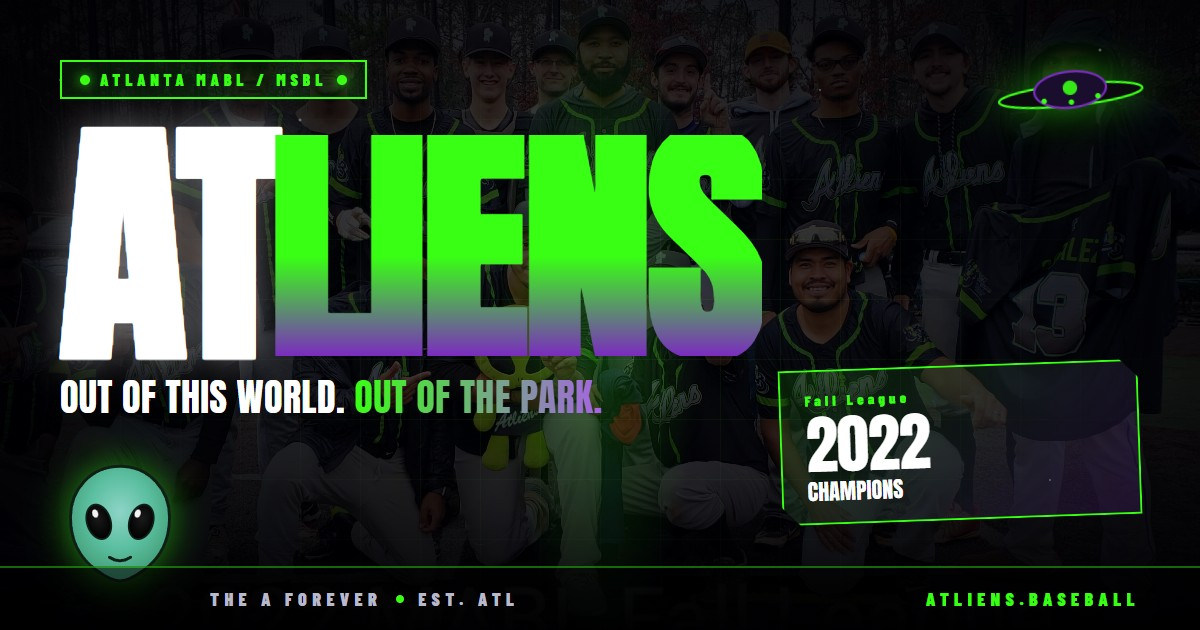
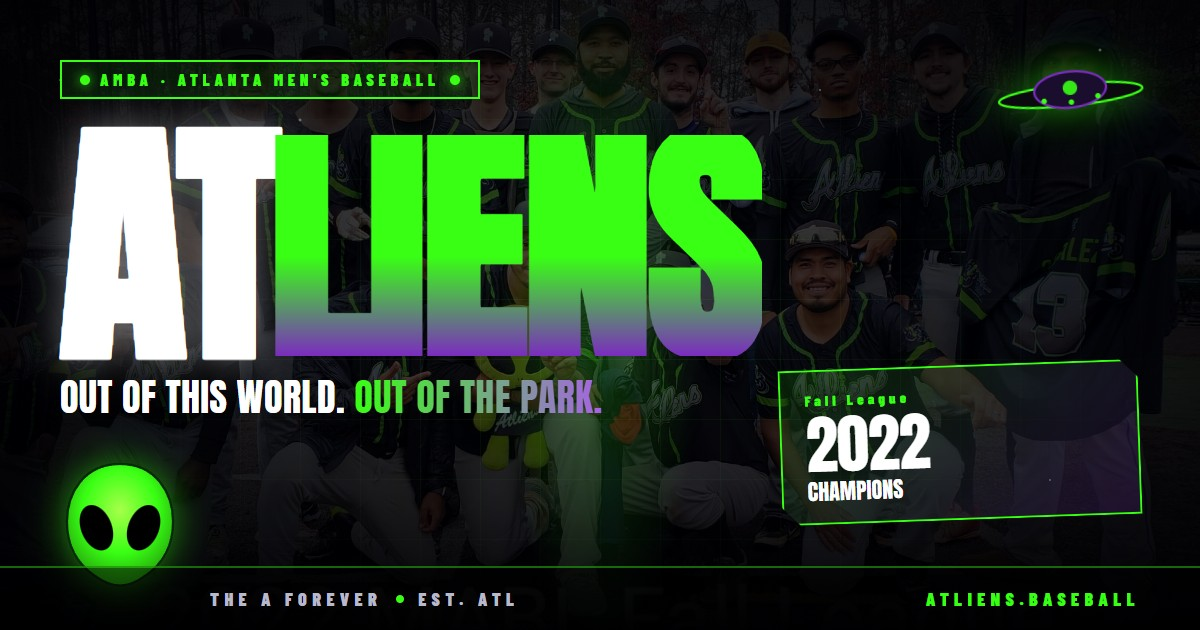
fix: correct league - AMBA (Atlanta Men's Baseball Association), not MABL/MSBL
Updated all references across:
- index.html: title, meta, JSON-LD schema (SportsTeam memberOf, FAQPage),
  hero eyebrow, ticker, About copy, stats (500 players / 1992 founded),
  trophy headline, gallery alt, Join card + CTA link to atlmba.com
- og.html + re-rendered og.jpg with AMBA eyebrow and new green alien
- sitemap.xml image titles/captions, manifest.webmanifest, humans.txt, README
- SW cache bumped to v1.4.0

AMBA = non-profit league founded 1992, 500+ players, divisions
18+/25+/30+/40+/43+/50+/53+/60+. Hosts the Roy Hobbs Peach State Classic.

Changed region(s): [[0.0308, 0.7238, 0.1542, 0.9349], [0.0925, 0.0905, 0.4008, 0.181]]

diff --git a/index.html b/index.html
@@ -5,9 +5,9 @@
 <meta name="viewport" content="width=device-width,initial-scale=1,viewport-fit=cover" />
 
 <!-- ===== Primary ===== -->
-<title>ATLiens Baseball | Atlanta MABL 2022 Fall League Champions</title>
-<meta name="description" content="The ATLiens - 2022 MABL Fall League Champions. Atlanta's loudest adult hardball team playing in the Atlanta MABL / MSBL. Out of this world. Out of the park." />
-<meta name="keywords" content="ATLiens, Atlanta MABL, MSBL, adult baseball Atlanta, Atlanta adult baseball league, men's baseball Atlanta, amateur baseball Georgia, MABL champions 2022, hardball Atlanta, Atlanta baseball team, ATL baseball" />
+<title>ATLiens Baseball | AMBA Atlanta Men's Baseball Association</title>
+<meta name="description" content="The ATLiens - 2022 Fall League Champions. Atlanta's loudest adult hardball team playing in AMBA, the Atlanta Men's Baseball Association. Out of this world. Out of the park." />
+<meta name="keywords" content="ATLiens, AMBA, Atlanta Men's Baseball Association, atlmba, adult baseball Atlanta, Atlanta adult baseball league, men's baseball Atlanta, amateur baseball Georgia, AMBA champions 2022, hardball Atlanta, Atlanta baseball team, ATL baseball, Peach State Classic" />
 <meta name="author" content="ATLiens Baseball Club" />
 <meta name="robots" content="index, follow, max-image-preview:large, max-snippet:-1, max-video-preview:-1" />
 <meta name="googlebot" content="index, follow, max-image-preview:large" />
@@ -29,8 +29,8 @@
 <meta name="ICBM" content="33.7490, -84.3880" />
 
 <!-- ===== Open Graph ===== -->
-<meta property="og:title" content="ATLiens Baseball | 2022 MABL Fall League Champions" />
-<meta property="og:description" content="The loudest team in the Atlanta MABL. Out of this world. Out of the park." />
+<meta property="og:title" content="ATLiens Baseball | 2022 AMBA Fall League Champions" />
+<meta property="og:description" content="The loudest team in AMBA - the Atlanta Men's Baseball Association. Out of this world. Out of the park." />
 <meta property="og:type" content="website" />
 <meta property="og:site_name" content="ATLiens Baseball" />
 <meta property="og:locale" content="en_US" />
@@ -40,14 +40,14 @@
 <meta property="og:image:type" content="image/jpeg" />
 <meta property="og:image:width" content="1200" />
 <meta property="og:image:height" content="630" />
-<meta property="og:image:alt" content="ATLiens Baseball - 2022 MABL Fall League Champions team photo with glitch logo" />
+<meta property="og:image:alt" content="ATLiens Baseball - 2022 AMBA Fall League Champions team photo with glitch logo" />
 
 <!-- ===== Twitter / X ===== -->
 <meta name="twitter:card" content="summary_large_image" />
-<meta name="twitter:title" content="ATLiens Baseball | 2022 MABL Fall League Champions" />
-<meta name="twitter:description" content="The loudest team in the Atlanta MABL. Out of this world. Out of the park." />
+<meta name="twitter:title" content="ATLiens Baseball | 2022 AMBA Fall League Champions" />
+<meta name="twitter:description" content="The loudest team in AMBA - the Atlanta Men's Baseball Association. Out of this world. Out of the park." />
 <meta name="twitter:image" content="https://credwine.github.io/atliens-baseball/assets/og.jpg" />
-<meta name="twitter:image:alt" content="ATLiens Baseball 2022 MABL Fall League Champions" />
+<meta name="twitter:image:alt" content="ATLiens Baseball 2022 AMBA Fall League Champions" />
 
 <!-- ===== Icons / PWA ===== -->
 <link rel="icon" href="assets/favicon.svg" type="image/svg+xml" />
@@ -87,7 +87,7 @@
       "url": "https://credwine.github.io/atliens-baseball/",
       "logo": "https://credwine.github.io/atliens-baseball/assets/alien-logo.svg",
       "image": "https://credwine.github.io/atliens-baseball/assets/og.jpg",
-      "description": "Adult amateur hardball team competing in the Atlanta MABL / MSBL. 2022 Fall League Champions.",
+      "description": "Adult amateur hardball team competing in AMBA - the Atlanta Men's Baseball Association. 2022 Fall League Champions.",
       "foundingLocation": {
         "@type": "Place",
         "address": {
@@ -99,13 +99,15 @@
       },
       "memberOf": {
         "@type": "SportsOrganization",
-        "name": "Atlanta MABL / MSBL",
-        "url": "https://www.atlantamabl.com/",
+        "name": "Atlanta Men's Baseball Association",
+        "alternateName": "AMBA",
+        "url": "https://www.atlmba.com/",
         "sport": "Baseball",
-        "description": "Atlanta's premier Men's Adult Baseball League - running since 1988, 50+ teams across 18+, 25+, 35+ and 50+ divisions."
+        "foundingDate": "1992",
+        "description": "AMBA - Atlanta Men's Baseball Association. Non-profit adult hardball league founded 1992 with 500+ players across 18+, 25+, 30+, 40+, 43+, 50+, 53+ and 60+ divisions. Hosts the AMBA / Roy Hobbs Peach State Classic on Memorial Day."
       },
       "award": [
-        "2022 MABL Fall League Champions"
+        "2022 AMBA Fall League Champions"
       ],
       "areaServed": {
         "@type": "City",
@@ -121,7 +123,7 @@
       "@id": "https://credwine.github.io/atliens-baseball/#website",
       "url": "https://credwine.github.io/atliens-baseball/",
       "name": "ATLiens Baseball",
-      "description": "Official ATLiens Baseball team site - 2022 MABL Fall League Champions.",
+      "description": "Official ATLiens Baseball team site - AMBA Atlanta Men's Baseball Association, 2022 Fall League Champions.",
       "inLanguage": "en-US",
       "publisher": { "@id": "https://credwine.github.io/atliens-baseball/#team" }
     },
@@ -129,7 +131,7 @@
       "@type": "WebPage",
       "@id": "https://credwine.github.io/atliens-baseball/#webpage",
       "url": "https://credwine.github.io/atliens-baseball/",
-      "name": "ATLiens Baseball | Atlanta MABL 2022 Fall League Champions",
+      "name": "ATLiens Baseball | AMBA Atlanta Men's Baseball Association",
       "isPartOf": { "@id": "https://credwine.github.io/atliens-baseball/#website" },
       "about": { "@id": "https://credwine.github.io/atliens-baseball/#team" },
       "primaryImageOfPage": {
@@ -160,7 +162,7 @@
           "name": "What league do the ATLiens play in?",
           "acceptedAnswer": {
             "@type": "Answer",
-            "text": "The ATLiens play in the Atlanta MABL / MSBL (Men's Adult Baseball League / Men's Senior Baseball League), a 50+ team adult hardball league that has been operating in metro Atlanta since 1988."
+            "text": "The ATLiens play in AMBA - the Atlanta Men's Baseball Association. AMBA is a non-profit adult hardball league founded in 1992 with 500+ players across age divisions from 18+ through 60+."
           }
         },
         {
@@ -168,7 +170,7 @@
           "name": "Is this a travel ball or youth team?",
           "acceptedAnswer": {
             "@type": "Answer",
-            "text": "No. The ATLiens are an adult amateur baseball team - players are 18+ competing in sanctioned MABL / MSBL divisions, not a travel or youth showcase team."
+            "text": "No. The ATLiens are an adult amateur baseball team - players are 18+ competing in sanctioned AMBA divisions, not a travel or youth showcase team."
           }
         },
         {
@@ -176,7 +178,7 @@
           "name": "Have the ATLiens won any championships?",
           "acceptedAnswer": {
             "@type": "Answer",
-            "text": "Yes. The ATLiens won the 2022 MABL Fall League Championship."
+            "text": "Yes. The ATLiens are 2022 Fall League Champions in AMBA."
           }
         },
         {
@@ -184,7 +186,7 @@
           "name": "How can I try out for the ATLiens?",
           "acceptedAnswer": {
             "@type": "Answer",
-            "text": "The ATLiens are always scouting for players. Middle infield, power arms, and corner outfielders most needed. Reach out via the Join section on this site or through the Atlanta MABL / MSBL."
+            "text": "The ATLiens are always scouting for players. Middle infield, power arms, and corner outfielders most needed. Reach out via the Join section on this site or through AMBA."
           }
         },
         {
@@ -192,7 +194,7 @@
           "name": "Where and when does the team play?",
           "acceptedAnswer": {
             "@type": "Answer",
-            "text": "Games are typically played on Sundays as doubleheaders on turf and grass fields around the Atlanta metro area, sanctioned by the Atlanta MABL / MSBL."
+            "text": "Games are typically played on Sundays as doubleheaders on turf and grass fields around the Atlanta metro area, sanctioned by AMBA - the Atlanta Men's Baseball Association."
           }
         }
       ]
@@ -287,7 +289,7 @@
 
   <div class="hero-content">
     <div class="hero-eyebrow">
-      <span class="blinker"></span> 2022 MABL Fall League Champions &nbsp;&bull;&nbsp; ATL MABL/MSBL
+      <span class="blinker"></span> 2022 Fall League Champions &nbsp;&bull;&nbsp; AMBA Atlanta
     </div>
     <h1 class="hero-title" aria-label="ATLiens">
       <span class="glitch" data-text="AT">AT</span><span class="glitch glitch-alt" data-text="Liens">Liens</span>
@@ -301,12 +303,12 @@
     <div class="hero-ticker" aria-hidden="true">
       <div class="ticker-track">
         <span>EST. ATL</span><span class="dot"></span>
-        <span>MABL/MSBL</span><span class="dot"></span>
+        <span>AMBA</span><span class="dot"></span>
         <span>FALL LEAGUE CHAMPS 2022</span><span class="dot"></span>
         <span>WE CAME FROM THE A</span><span class="dot"></span>
         <span>THE A FOREVER</span><span class="dot"></span>
         <span>EST. ATL</span><span class="dot"></span>
-        <span>MABL/MSBL</span><span class="dot"></span>
+        <span>AMBA</span><span class="dot"></span>
         <span>FALL LEAGUE CHAMPS 2022</span><span class="dot"></span>
         <span>WE CAME FROM THE A</span><span class="dot"></span>
         <span>THE A FOREVER</span><span class="dot"></span>
@@ -331,8 +333,8 @@
         <span class="word-flip accent"><span>THE A.</span><span>THE A.</span></span>
       </h2>
       <p>
-        The ATLiens play in the <strong>Atlanta MABL/MSBL</strong>, a 50+ team adult hardball league that's been running since
-        1988. We're the team in the black-and-green kits. The team with the alien mascot. The team nobody expected to win it all.
+        The ATLiens play in <strong>AMBA</strong> &mdash; the Atlanta Men's Baseball Association &mdash; a 500+ player adult hardball league
+        that's been running since 1992. We're the team in the black-and-green kits. The team with the alien mascot. The team nobody expected to win it all.
       </p>
       <p>
         We're not a travel showcase squad. We're grown men who live for Sunday doubleheaders, dugout chirps, and that feeling
@@ -350,12 +352,12 @@
         <span class="stat-label">Kits in the Closet</span>
       </li>
       <li>
-        <span class="stat-num" data-target="50">0</span>
-        <span class="stat-label">Teams in the ATL MABL</span>
+        <span class="stat-num" data-target="500">0</span>
+        <span class="stat-label">Players in AMBA</span>
       </li>
       <li>
-        <span class="stat-num" data-target="1988">0</span>
-        <span class="stat-label">League Since</span>
+        <span class="stat-num" data-target="1992">0</span>
+        <span class="stat-label">AMBA Since</span>
       </li>
     </ul>
   </div>
@@ -404,13 +406,13 @@
     <div class="trophy-kicker">03 &nbsp;/&nbsp; Hardware</div>
     <h2 class="trophy-title">
       <span>2022</span>
-      <span class="accent">MABL FALL</span>
+      <span class="accent">AMBA FALL</span>
       <span>CHAMPIONS</span>
     </h2>
     <div class="trophy-photo">
       <picture>
         <source type="image/webp" srcset="assets/img/champions-2022-m.webp 900w, assets/img/champions-2022.webp 1800w" sizes="(max-width: 768px) 100vw, 50vw"/>
-        <img srcset="assets/img/champions-2022-m.jpg 900w, assets/img/champions-2022.jpg 1800w" sizes="(max-width: 768px) 100vw, 50vw" src="assets/img/champions-2022.jpg" alt="The full ATLiens squad on the field holding the 2022 MABL Fall League Championship trophy, with their green alien plush mascot" loading="lazy" width="1200" height="900"/>
+        <img srcset="assets/img/champions-2022-m.jpg 900w, assets/img/champions-2022.jpg 1800w" sizes="(max-width: 768px) 100vw, 50vw" src="assets/img/champions-2022.jpg" alt="The full ATLiens squad on the field holding the 2022 AMBA Fall League Championship trophy, with their green alien plush mascot" loading="lazy" width="1200" height="900"/>
       </picture>
       <div class="trophy-rays"></div>
     </div>
@@ -667,7 +669,7 @@
     <figure class="gal"><picture><source type="image/webp" srcset="assets/img/pitcher-night-m.webp 900w, assets/img/pitcher-night.webp 1800w" sizes="(max-width: 768px) 100vw, 50vw"/><img srcset="assets/img/pitcher-night-m.jpg 900w, assets/img/pitcher-night.jpg 1800w" sizes="(max-width: 768px) 100vw, 50vw" src="assets/img/pitcher-night.jpg" alt="ATLiens pitcher delivering a fastball at night" loading="lazy" width="800" height="600"/></picture></figure>
     <figure class="gal tall"><picture><source type="image/webp" srcset="assets/img/black-scream-m.webp 900w, assets/img/black-scream.webp 1800w" sizes="(max-width: 768px) 100vw, 50vw"/><img srcset="assets/img/black-scream-m.jpg 900w, assets/img/black-scream.jpg 1800w" sizes="(max-width: 768px) 100vw, 50vw" src="assets/img/black-scream.jpg" alt="ATLiens player in black kit celebrating after a play" loading="lazy" width="800" height="1000"/></picture></figure>
     <figure class="gal"><picture><source type="image/webp" srcset="assets/img/huddle-27-m.webp 900w, assets/img/huddle-27.webp 1800w" sizes="(max-width: 768px) 100vw, 50vw"/><img srcset="assets/img/huddle-27-m.jpg 900w, assets/img/huddle-27.jpg 1800w" sizes="(max-width: 768px) 100vw, 50vw" src="assets/img/huddle-27.jpg" alt="ATLiens number 27 in dugout huddle with teammates" loading="lazy" width="800" height="600"/></picture></figure>
-    <figure class="gal"><picture><source type="image/webp" srcset="assets/img/florida-team-m.webp 900w, assets/img/florida-team.webp 1800w" sizes="(max-width: 768px) 100vw, 50vw"/><img srcset="assets/img/florida-team-m.jpg 900w, assets/img/florida-team.jpg 1800w" sizes="(max-width: 768px) 100vw, 50vw" src="assets/img/florida-team.jpg" alt="Full ATLiens roster in powder blue kits at the MSBL Fall Classic in Florida" loading="lazy" width="800" height="600"/></picture></figure>
+    <figure class="gal"><picture><source type="image/webp" srcset="assets/img/florida-team-m.webp 900w, assets/img/florida-team.webp 1800w" sizes="(max-width: 768px) 100vw, 50vw"/><img srcset="assets/img/florida-team-m.jpg 900w, assets/img/florida-team.jpg 1800w" sizes="(max-width: 768px) 100vw, 50vw" src="assets/img/florida-team.jpg" alt="Full ATLiens roster in powder blue kits at the AMBA Roy Hobbs Peach State Classic" loading="lazy" width="800" height="600"/></picture></figure>
     <figure class="gal wide"><picture><source type="image/webp" srcset="assets/img/purple-celebrate-m.webp 900w, assets/img/purple-celebrate.webp 1800w" sizes="(max-width: 768px) 100vw, 50vw"/><img srcset="assets/img/purple-celebrate-m.jpg 900w, assets/img/purple-celebrate.jpg 1800w" sizes="(max-width: 768px) 100vw, 50vw" src="assets/img/purple-celebrate.jpg" alt="ATLiens player in purple jersey screaming in celebration after scoring" loading="lazy" width="1600" height="800"/></picture></figure>
     <figure class="gal"><picture><source type="image/webp" srcset="assets/img/pitcher-day-m.webp 900w, assets/img/pitcher-day.webp 1800w" sizes="(max-width: 768px) 100vw, 50vw"/><img srcset="assets/img/pitcher-day-m.jpg 900w, assets/img/pitcher-day.jpg 1800w" sizes="(max-width: 768px) 100vw, 50vw" src="assets/img/pitcher-day.jpg" alt="ATLiens pitcher in day game warming up on the mound" loading="lazy" width="800" height="600"/></picture></figure>
     <figure class="gal"><picture><source type="image/webp" srcset="assets/img/hype-fist-green-m.webp 900w, assets/img/hype-fist-green.webp 1800w" sizes="(max-width: 768px) 100vw, 50vw"/><img srcset="assets/img/hype-fist-green-m.jpg 900w, assets/img/hype-fist-green.jpg 1800w" sizes="(max-width: 768px) 100vw, 50vw" src="assets/img/hype-fist-green.jpg" alt="ATLiens player fist-pumping in the neon-green home kit" loading="lazy" width="800" height="600"/></picture></figure>
@@ -707,12 +709,12 @@
           <svg viewBox="0 0 48 48" aria-hidden="true"><path d="M24 6l4 10 10 1-8 7 2 11-10-6-10 6 2-11-8-7 10-1z" fill="none" stroke="#39FF14" stroke-width="2"/></svg>
         </div>
         <h3>League</h3>
-        <p>Atlanta MABL/MSBL &mdash; 18+, 25+, 35+, 50+ divisions.</p>
+        <p>AMBA &mdash; Atlanta Men's Baseball Association. 18+, 25+, 30+, 40+, 50+ divisions plus Peach State Classic.</p>
       </div>
     </div>
     <div class="join-cta">
       <a href="mailto:thomas@example.com?subject=ATLiens%20Tryout" class="btn-primary big"><span>Request a Tryout</span><i class="arr"></i></a>
-      <a href="https://www.atlantamabl.com/" target="_blank" rel="noopener" class="btn-ghost big">ATL MABL/MSBL <i class="arr"></i></a>
+      <a href="https://www.atlmba.com/" target="_blank" rel="noopener" class="btn-ghost big">AMBA League <i class="arr"></i></a>
     </div>
   </div>
 </section>

diff --git a/og.html b/og.html
@@ -217,7 +217,7 @@
   </div>
 
   <div class="content">
-    <div class="eyebrow"><span class="dot"></span> ATLANTA MABL / MSBL <span class="dot"></span></div>
+    <div class="eyebrow"><span class="dot"></span> AMBA &middot; ATLANTA MEN'S BASEBALL <span class="dot"></span></div>
     <h1 class="title">
       <span class="at">AT</span><span class="liens">Liens</span>
     </h1>

diff --git a/sw.js b/sw.js
@@ -8,7 +8,7 @@
  *   - Never cache: og.html preview, API-like endpoints
  * Versioning: bump CACHE_VERSION to invalidate old caches.
  */
-const CACHE_VERSION = 'v1.3.0';
+const CACHE_VERSION = 'v1.4.0';
 const SHELL_CACHE   = `atliens-shell-${CACHE_VERSION}`;
 const STATIC_CACHE  = `atliens-static-${CACHE_VERSION}`;
 const IMAGE_CACHE   = `atliens-img-${CACHE_VERSION}`;

diff --git a/README.md b/README.md
@@ -1,6 +1,6 @@
 # ATLiens Baseball
 
-Static site for the ATLiens, Atlanta MABL adult hardball team.
+Static site for the ATLiens, AMBA (Atlanta Men's Baseball Association) adult hardball team.
 2022 Fall League Champions.
 
 Built with vanilla HTML, CSS, and JavaScript. No build step.
